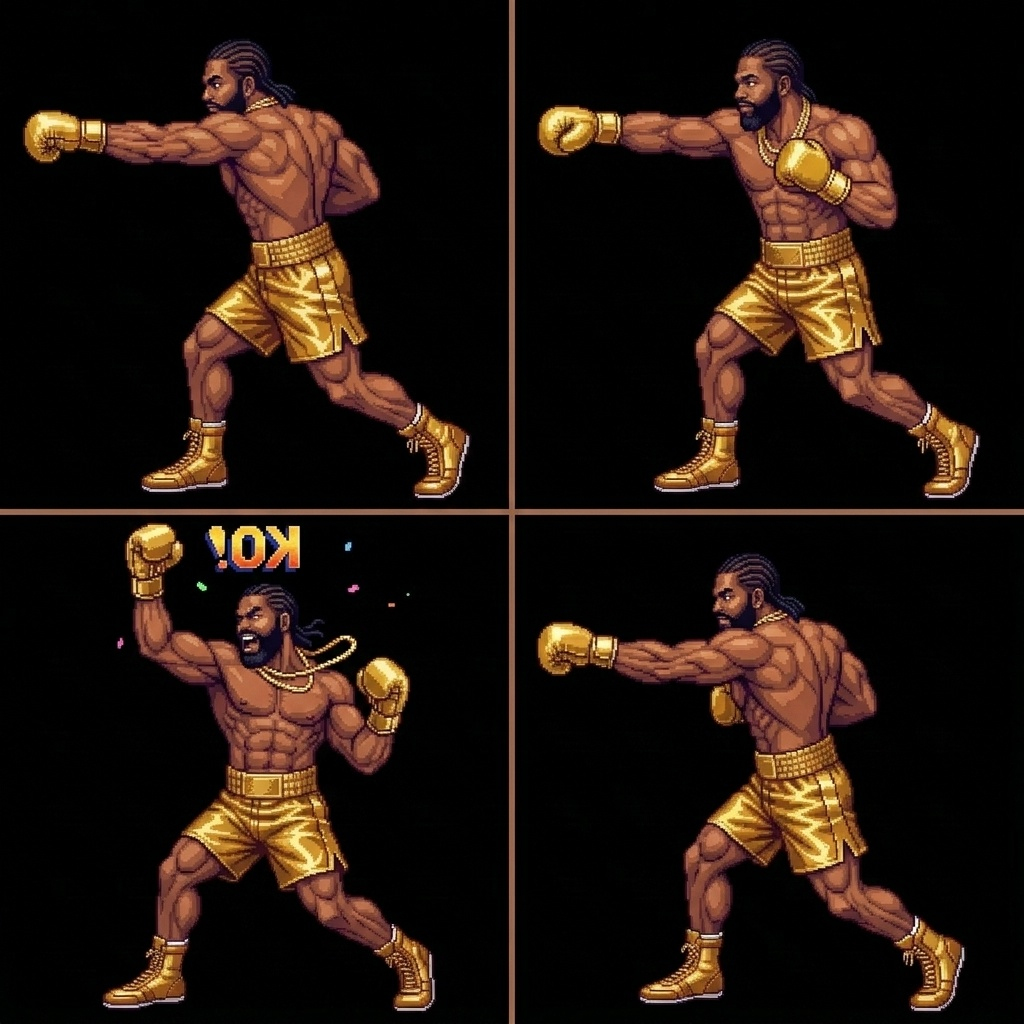
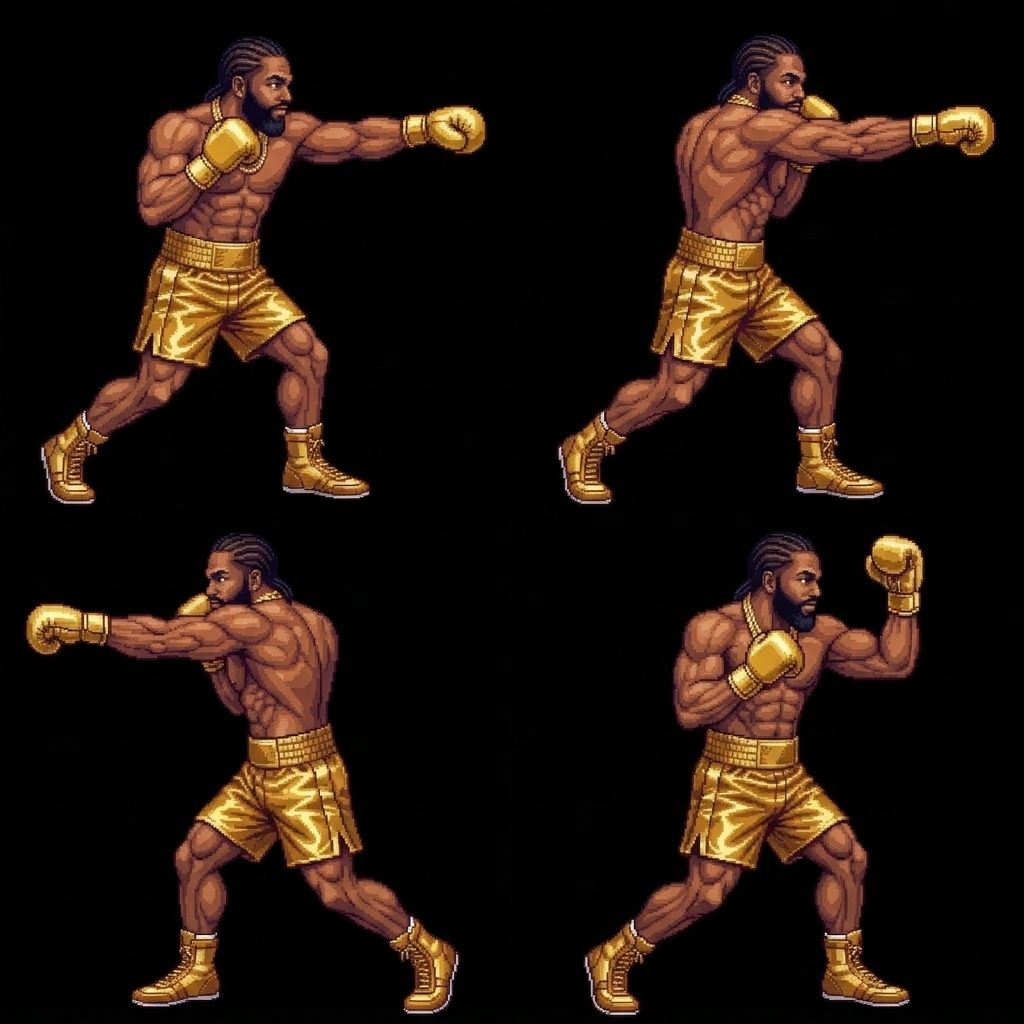
fix: surgically flip broken quadrants in sprite sheets to ensure 100% uniformity in direction

diff --git a/index.html b/index.html
@@ -1676,13 +1676,13 @@
     const rosterIds = ['broner', 'deen', 'ryan', 'n3on', 'rayj', 'blueface', 'chrisean', 'rampage', 'adin', 'charleston', 'walid', 'abrown', 'tank', 'floyd'];
     rosterIds.forEach(id => {
       const imgIdle = new Image();
-      imgIdle.src = 'assets/' + id + '_sprite.jpg?v=7';
+      imgIdle.src = 'assets/' + id + '_sprite.jpg?v=11';
       imgIdle.onload = () => {
         ROSTER_IDLE_CANVASES[id] = createTransparentCanvas(imgIdle);
       };
 
       const imgPunch = new Image();
-      imgPunch.src = 'assets/' + id + '_punches.jpg?v=7';
+      imgPunch.src = 'assets/' + id + '_punches.jpg?v=11';
       imgPunch.onload = () => {
         ROSTER_PUNCH_CANVASES[id] = createTransparentCanvas(imgPunch);
       };

diff --git a/test_sprites.html b/test_sprites.html
@@ -15,8 +15,8 @@
       document.write(`
         <div class="row">
           <div class="label">${id}</div>
-          <img src="assets/${id}_sprite.jpg?v=8" alt="${id} idle" />
-          <img src="assets/${id}_punches.jpg?v=8" alt="${id} punches" />
+          <img src="assets/${id}_sprite.jpg?v=11" alt="${id} idle" />
+          <img src="assets/${id}_punches.jpg?v=11" alt="${id} punches" />
         </div>
       `);
     });
